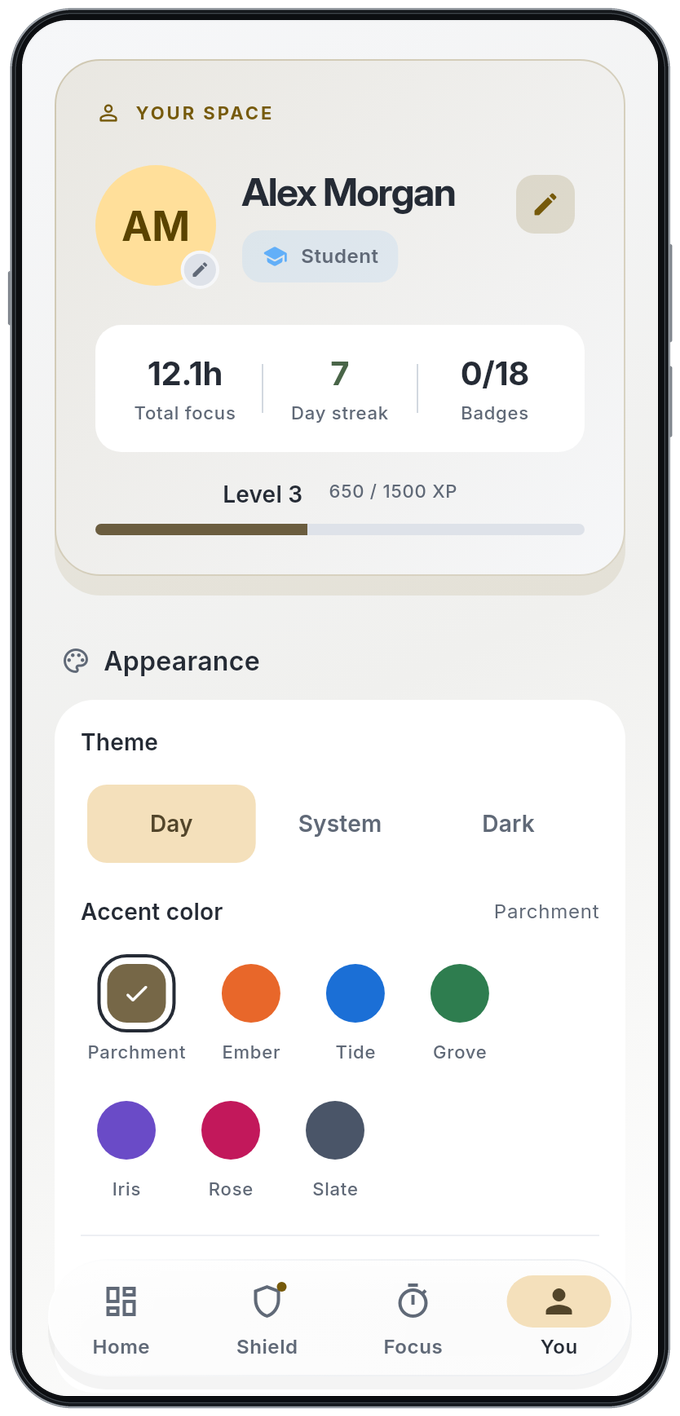
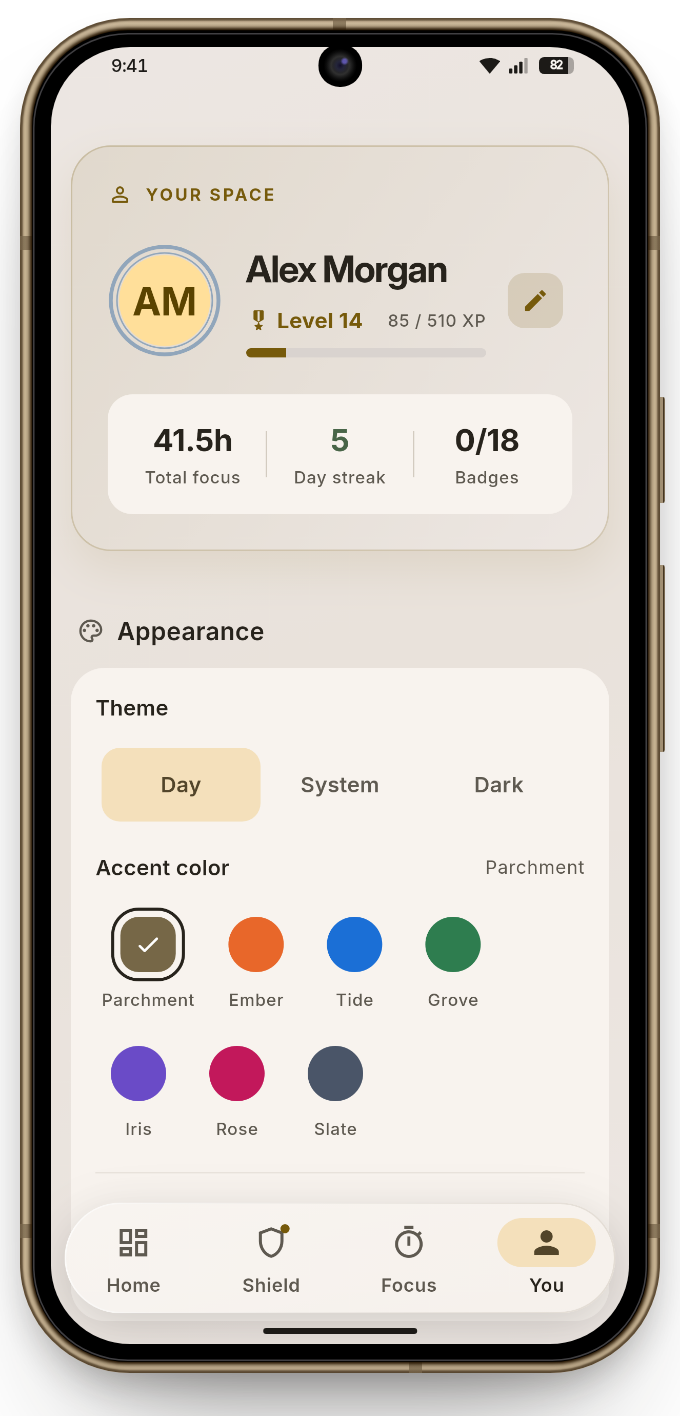
docs(readme): announce Google Play and reframe the screenshots
The gallery shows fresh 1.0.6 renders of Home, Shield, Focus and You in
the website's phone frame. The Play button opens the live listing, the
closed-test call for testers is gone, and so is the note under the
gallery.

diff --git a/docs/screenshots/README.md b/docs/screenshots/README.md
@@ -1,83 +1,46 @@
 # Screenshot gallery
 
-The Day and Dark galleries show the current FocusForge interface: Home, Shield,
-Focus and You. The two galleries no longer share a capture method, and the
-difference is worth stating plainly.
+The Day and Dark galleries show Home, Shield, Focus and You from the 1.0.6
+build. Both are Flutter widget renders, not device captures. The capture
+harness seeds demo data: Alex Morgan, a week of Maths, Physics and Chemistry
+sessions, and Shield rules for Instagram, YouTube, WhatsApp and Snapchat. None
+of it comes from a real account.
 
-**Dark** was captured on a physical Android device running the 1.0.4 build on
-28 October 2026, from the maintainer's own account. The account name, focus
-totals, level, badge count and the installed app rows are that account's real
-values, published deliberately by the person they belong to. Only the phone
-border and the rounded screen clipping are added; nothing in the screen content
-is staged or retouched.
-
-**Day** is still the earlier reproducible widget-test render, captured from the
-actual Flutter widgets at source commit
-20cbb1536e599f540e81914da1011aed98e40929 on 19 October 2026. Those captures
-seed a demo subject catalog and a local fixture account, so Alex Morgan,
-subject totals, study history and the installed app catalog are demonstration
-data, and Android permissions and cloud memberships are not simulated as
-working production services.
-
-Neither gallery is manufacturer artwork, and the phone borders in both are
-neutral illustrative silhouettes rather than any specific handset.
+The Dark gallery uses the pure black (AMOLED) theme. Each render sits in the website's OnePlus 15 frame (`op15.css` from
+focusforge-web) with an Android status bar and gesture pill drawn on top.
 
 ## Reproduce the images
 
-This reproduces the Day gallery and the Focus motion GIF. The Dark gallery came
-off a device and cannot be regenerated from the repository; the four captures it
-was built from are preserved in `source/*-dark.png`.
-
-From the app project root, with Flutter and Pillow installed:
+From the app project root, with Flutter installed:
 
 ```sh
-flutter test tool/capture_readme_test.dart
-python3 tool/compose_readme_assets.py
+CAPTURE_SCALE=3 flutter test tool/capture_redesign_test.dart
 ```
 
-The capture harness loads the app's bundled text and Material icon fonts, then
-renders both actual theme modes at 390 × 844 logical pixels with 2× capture
-resolution. It runs outside the default test suite, writes intermediate files to
-`build/readme-captures`, and never accesses a user's stored data.
+This writes 1170 × 2532 captures to `build/redesign`. Copy
+`{dashboard,shield,focus,profile}-{light,dark}.png` into `source/` here and
+into the store compositor's `shots/` folder, then run the compositor. It lives
+outside this repository, in the maintainer's `~/project/art/store`, and uses
+Playwright's Chromium from focusforge-web:
 
-The compositor preserves the original captures in `source/`, linked from the
-individual screens in each gallery — 780 × 1688 for the Day renders, and the
-device's own 1220 × 2712 for the Dark ones, padded to the frame's aspect with
-black rather than stretched. It also resizes them into
-680 × 1416 transparent PNGs.
-Only the border and rounded screen clipping are added; the app's controls, text,
-colors and layouts come directly from the Flutter render. Screen content stays
-opaque, including light surfaces. The transparent exterior is created from a
-vector silhouette rather than removing white pixels. No camera hole covers app
-content.
+```sh
+node readme.mjs path/to/focusforge/docs/screenshots
+```
 
-`gallery-day.png` and `gallery-dark.png` combine the four matching phone renders
-on transparent 2620 × 1340 canvases. Their Home, Shield, Focus and You captions
-use the app's bundled Inter typeface on opaque caption backgrounds that remain
-readable against either GitHub theme. The Day and Dark buttons open `day.md`
-or `dark.md`, where readers can switch to the other gallery or return to the
-main README.
+It writes `gallery-day.png` and `gallery-dark.png` (2620 × 1340, transparent
+so either GitHub theme shows through) and the eight single phones
+(680 × 1416): `01-dashboard.png` … `04-you.png` for Day and the same names in
+`dark/` for Dark.
 
-`03-focus.gif` is a 340 × 708 animation of the actual Focus Start control being
-pressed and released. It captures the real app transition at about 12 frames
-per second, with pauses at the beginning and end. It does not fabricate an
-accelerated focus countdown. Its palette is shared across frames to keep the
-static interface steady.
+The Focus motion GIF (`03-focus.gif`) is older and comes from
+`tool/capture_readme_test.dart` and `tool/compose_readme_assets.py`.
 
-## README theme selector
+## Store images
 
-GitHub supports section links, expandable `<details>` galleries and
-theme-sensitive `<picture>` images. The README uses these supported elements;
-it does not depend on custom JavaScript, custom CSS or an embedded app. GitHub
-controls the surrounding font styling.
-
-## Validation and older artwork
-
-The fresh Flutter capture test passed. PNG/GIF decoding, dimensions, transparent
-exteriors, central screen pixels and readable screen labels were checked. The
-image bridge did not provide direct visual inspection, so no subjective visual
-approval or native-device verification is claimed.
-
-The older `04-groups.webp` remains an unused local-fixture preview from a prior
-capture. It is not part of the refreshed four-screen README gallery. The website uses matching updated dark Home, Shield and Focus images. Separate
-Play Store artwork and the design-review images are unchanged.
+The README's two rows of screenshots are six of the Google Play store images
+from the same compositor (`node render.mjs`), in the pure black (AMOLED)
+theme. Each puts a 1.0.6 capture with demo data in the website's phone frame,
+under or over its Play Store headline. Every row is one image,
+`store/row-1.webp` and `store/row-2.webp`: three images at 600 px wide with
+rounded corners and 36 px transparent gaps, so the three stay side by side at
+any screen width.

diff --git a/README.md b/README.md
@@ -9,34 +9,24 @@
 
 FocusForge helps you block distractions, build a study routine, and keep track of the effort that turns into progress.
 
+**Now live on Google Play.**
+
 <p>
-  <a href="https://www.focus-forge.in/get-on-play"><img src="docs/readme/play-store.png" width="216" height="84" alt="Get on Play Store"></a>
+  <a href="https://play.google.com/store/apps/details?id=dev.focusforge.focusforge"><img src="docs/readme/play-store.png" width="216" height="84" alt="Get it on Google Play"></a>
   <a href="https://github.com/MufasaXz/focusforge/releases/latest"><img src="docs/readme/github.svg" width="216" height="84" alt="Get on GitHub"></a>
 </p>
 
 **Free & open source** · No ads · No subscriptions
 
-<sub>Version 1.0.0 · Android 7.0+ · MIT licensed</sub>
+<sub>Version 1.0.6 · Android 7.0+ · MIT licensed</sub>
 
 <br>
 
 ### A quieter space to do your best work.
 
-<p>
-  <a href="docs/screenshots/day.md"><img src="docs/readme/day.svg" width="140" height="42" alt="Open Day gallery"></a>
-  <a href="docs/screenshots/dark.md"><img src="docs/readme/dark.svg" width="140" height="42" alt="Open Dark gallery"></a>
-</p>
+<img src="docs/screenshots/store/row-1.webp" width="900" alt="FocusForge screenshots: Deep focus, one block at a time; Watch every subject add up; Block the apps that pull you away">
 
-<picture>
-  <source media="(prefers-color-scheme: dark)" srcset="docs/screenshots/gallery-dark.png">
-  <source media="(prefers-color-scheme: light)" srcset="docs/screenshots/gallery-day.png">
-  <img src="docs/screenshots/gallery-day.png" width="900" alt="FocusForge Home, Shield, Focus and You screens">
-</picture>
-
-<sub>A theme-aware preview. Choose Day or Dark to open either gallery.</sub>
-
-<br>
-<sub>Dark is a device capture of the 1.0.4 build; Day is a widget render with demo data. Both sit in illustrative phone frames. <a href="docs/screenshots/README.md">How the screenshots were made</a>.</sub>
+<img src="docs/screenshots/store/row-2.webp" width="900" alt="FocusForge screenshots: Keep YouTube for lectures; Meet Pip, your study buddy; Climb the weekly leaderboard">
 
 </div>
 
@@ -75,11 +65,9 @@ The timer also works without an account. Optional study groups and the weekly le
 
 ## Your next focused session starts here.
 
-1. **[Get on Play Store](https://www.focus-forge.in/get-on-play)** by following the closed-test steps, or **[get the APK on GitHub](https://github.com/MufasaXz/focusforge/releases/latest)**.
+1. **[Get it on Google Play](https://play.google.com/store/apps/details?id=dev.focusforge.focusforge)**, or **[get the APK on GitHub](https://github.com/MufasaXz/focusforge/releases/latest)**. The two are signed differently, so uninstall one before installing the other.
 2. **Choose your subjects and a daily goal.** Continue without an account, or link one for private profile backup and optional shared features.
 3. **Start your clock.** Enable the permissions for Shield when you want to block distractions.
-
-Want to help bring FocusForge to Google Play? We’re looking for **50+ testers**. [Join the closed test](https://www.focus-forge.in/get-on-play), stay opted in and keep the app installed for 14 consecutive days, use it for 1–5 minutes daily, and share honest feedback.
 
 Need help installing an APK? Follow the [installation guide](docs/play-protect.md).
 

diff --git a/docs/screenshots/dark.md b/docs/screenshots/dark.md
@@ -11,7 +11,7 @@ A quiet workspace for late-night study.
 
 <img src="gallery-dark.png" width="900" alt="FocusForge Dark mode: Home, Shield, Focus and You">
 
-<sub>Version 1.0.4 · Build 2029 · Captured on a physical device from the maintainer's own account.</sub>
+<sub>Version 1.0.6 · Flutter widget render with demo data, in the website's phone frame.</sub>
 
 </div>
 
@@ -42,6 +42,6 @@ This is the app's real Start transition captured from Flutter, and it remains a 
 
 </details>
 
-These four are physical-device captures of the 1.0.4 build, taken from the maintainer's own account and published deliberately, so the name and the totals on them are real. Only the phone border and the rounded screen clipping are added. [Screenshot provenance and reproduction](README.md).
+These four are Flutter widget renders with demo data: Alex Morgan, the study totals and the app list are made up for the screenshots. They sit in the same phone frame as the website. [Screenshot provenance and reproduction](README.md).
 
 [← Back to FocusForge](../../README.md) · [Explore Day](day.md)

diff --git a/docs/screenshots/day.md b/docs/screenshots/day.md
@@ -11,7 +11,7 @@ A light workspace for your next focused session.
 
 <img src="gallery-day.png" width="900" alt="FocusForge Day mode: Home, Shield, Focus and You">
 
-<sub>Version 1.0.3 · Build 2019 · Flutter widget render with fictional demo data.</sub>
+<sub>Version 1.0.6 · Flutter widget render with demo data, in the website's phone frame.</sub>
 
 </div>
 
@@ -33,6 +33,6 @@ Select a screen to open its original app render.
 
 <p align="center"><strong>Focus</strong> · One session at a time &nbsp; / &nbsp; <strong>You</strong> · Make it yours</p>
 
-The screenshots use real app widgets, bundled fonts, and fictional local fixtures. Phone borders are illustrative; these are not physical-device captures. [Screenshot provenance and reproduction](README.md).
+The screenshots use real app widgets, bundled fonts and made-up demo data, in the same phone frame as the website. They are not physical-device captures. [Screenshot provenance and reproduction](README.md).
 
 [← Back to FocusForge](../../README.md) · [Explore Dark](dark.md)
